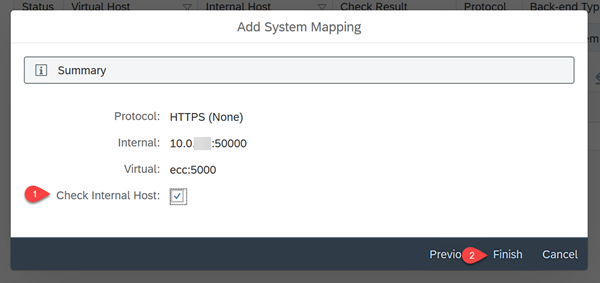
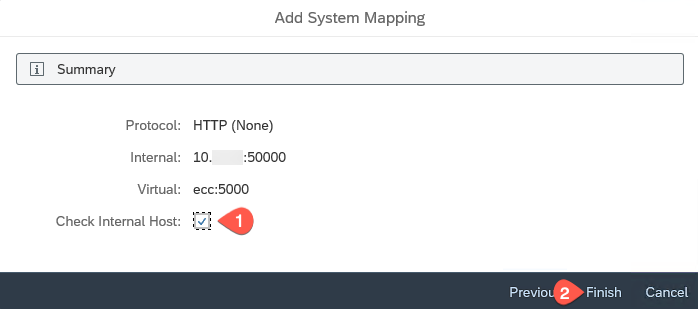
Fixing validation comments

Changed region(s): [[0.0, 0.0, 1.0, 1.0], [0.18, 0.4806, 0.42, 0.5371], [0.18, 0.3675, 0.42, 0.4523]]

diff --git a/mission/create-API/bupa/README.md b/mission/create-API/bupa/README.md
@@ -5,7 +5,16 @@ As the SAP ERP 6.0 system doesn't has an API OData services by default, we have 
 
 **Persona:** ABAP Developer
 
-## Step-by-step Guide                
+## Step-by-step Guide 
+
+### Create Developer Access Key
+1. Open in your browser "service.sap.com".
+2. Search for 'Keys & Requests' and select and open link 'https://launchpad.support.sap.com/#/sscr'.
+3. 	Register Developer - to get developer key ( Give your SAP user ID or your customer ID) A developer key will be generated towards your SAP user id.
+4. Register object - to get Object key ( Give your SAP user id or your customer ID) A object key will be generated towards your SAP user id.   
+5. Copy the keys which will be needed for the next step.
+
+### Create a custom Service using SAP Gateway Servic Builder            
 1. Navigate to [SAP API Hub - Business Partner (A2X) API ](https://api.sap.com/api/API_BUSINESS_PARTNER/overview) for  downloading EDMX file of Business Partner from API Business Hub. We will use this as a template for creating a custom OData service.
 
    * Click Download API Specifiation
@@ -43,7 +52,7 @@ As the SAP ERP 6.0 system doesn't has an API OData services by default, we have 
 
 >Note: You might face issue of importing EDMX error due to conversion of data type. Please ignore it for this scenario. Continue for generation.
 
-6. Click on **Generate** to enable **DPC**, **MPC**, **Model and Service** successfully. Save in **Local Package** or in **Transport**.
+6. Click on **Generate** to enable **DPC**, **MPC**, **Model and Service** successfully.  When you are prompted for Access key, enter the Access key which you generated in the previous step. Save in **Local Package** or in **Transport**.
    Clicking on **Generate**, you will get a dialog box with message *Do You still want to generate runtime artifacts (yes/no)*. Here Select **Yes** to continue.
 
    ![](./images/segw_5.png)
@@ -114,7 +123,7 @@ METHOD a_businesspartne_get_entity.
 ENDMETHOD.
 ````````````
 
-11. After Pasting the Code, Save the Code and You will get message that Code is Saved. Then Check the Code that your syntax is correct. Last everything went without error, then Activate the object. When you activate the objects, you get a popup with all the inactive objects. Select all the objects and click the 'green tick icon' to Activate all the objects.
+11. After Pasting the Code, Save the Code and You will get message that Code is Saved. Then Check the Code that your syntax is correct. Last everything went without error, then Activate the object. When you activate the objects, you will get a pop-up with all the inactive objects. Select all the inactive objects and click the 'green tick icon' to Activate all the objects.
 
    ![](images/activation.png)
 
@@ -172,7 +181,7 @@ METHOD a_businesspartne_get_entityset.
   ENDTRY.
 ENDMETHOD.
 `````
-14. After Pasting the Code, Save the Code and You will get message that Code is Saved. Then Check the Code that your syntax is correct. Last everything went without error, then Activate the object. When you activate the objects, you get a popup with all the inactive objects. Select all the objects and click the 'green tick icon' to Activate all the objects. Once the activation is successful you will get message in the below for successful activation. Please see the image below. 
+14. After Pasting the Code, Save the Code and You will get message that Code is Saved. Then Check the Code that your syntax is correct. Last everything went without error, then Activate the object. When you activate the objects, you will get a popup with all the inactive objects. Select all the inactive objects and click the 'green tick icon' to Activate all the objects. Once the activation is successful you will get message in the below for successful activation. Please see the image below. 
 
     >Never do force Activation as it will dump the Object. If activation is giving error, revisit the prevous steps and ensure every steps as done properly.
 
@@ -244,7 +253,7 @@ A_BUSINESSPARTNE_UPDATE_ENTITY
   ENDMETHOD.
 ````````
 
-17. After Pasting the Code, Save the Code and You will get message that Code is Saved. Then Check the Code that your syntax is correct. Last everything went without error, then Activate the object. When you activate the objects, you get a popup with all the inactive objects. Select all the objects and click the 'green tick icon' to Activate all the objects. Once the activation is successful you will get message in the below for successful activation. Please see the image below. 
+17. After Pasting the Code, Save the Code and You will get message that Code is Saved. Then Check the Code that your syntax is correct. Last everything went without error, then Activate the object. When you activate the objects, you will get a popup with all the inactive objects. Select all the inactive objects and click the 'green tick icon' to Activate all the objects. Once the activation is successful you will get message in the below for successful activation. Please see the image below. 
 
     >Never do force Activation as it will dump the Object. If activation is giving error, revisit the prevous steps and ensure every steps as done properly.
 
@@ -317,7 +326,7 @@ METHOD A_BUSINESSPART01_GET_ENTITY.
 ENDMETHOD.
 `````````````````````
 
-20. After Pasting the Code, Save the Code and You will get message that Code is Saved. Then Check the Code that your syntax is correct. Last everything went without error, then Activate the object. When you activate the objects, you get a popup with all the inactive objects. Select all the objects and click the 'green tick icon' to Activate all the objects. Once the activation is successful you will get message in the below for successful activation. Please see the image below. 
+20. After Pasting the Code, Save the Code and You will get message that Code is Saved. Then Check the Code that your syntax is correct. Last everything went without error, then Activate the object. When you activate the objects, you will get a popup with all the inactive objects. Select all the inactive objects and click the 'green tick icon' to Activate all the objects. Once the activation is successful you will get message in the below for successful activation. Please see the image below. 
 
     >Never do force Activation as it will dump the Object. If activation is giving error, revisit the prevous steps and ensure every steps as done properly.
 
@@ -391,7 +400,7 @@ A_BUSINESSPART01_GET_ENTITYSET
   ENDMETHOD.
 `````````
 
-23. After Pasting the Code, Save the Code and You will get message that Code is Saved. Then Check the Code that your syntax is correct. Last everything went without error, then Activate the object. When you activate the objects, you get a popup with all the inactive objects. Select all the objects and click the 'green tick icon' to Activate all the objects. Once the activation is successful you will get message in the below for successful activation. Please see the image below. 
+23. After Pasting the Code, Save the Code and You will get message that Code is Saved. Then Check the Code that your syntax is correct. Last everything went without error, then Activate the object. When you activate the objects, you will get a popup with all the inactive objects. Select all the inactive objects and click the 'green tick icon' to Activate all the objects. Once the activation is successful you will get message in the below for successful activation. Please see the image below. 
 
     >Never do force Activation as it will dump the Object. If activation is giving error, revisit the prevous steps and ensure every steps as done properly.
 
@@ -464,7 +473,7 @@ A_BUSINESSPART01_UPDATE_ENTITY
   ENDMETHOD.
 ``````````````````````
 
-26. After Pasting the Code, Save the Code and You will get message that Code is Saved. Then Check the Code that your syntax is correct. Last everything went without error, then Activate the object. When you activate the objects, you get a popup with all the inactive objects. Select all the objects and click the 'green tick icon' to Activate all the objects. Once the activation is successful you will get message in the below for successful activation. Please see the image below. 
+26. After Pasting the Code, Save the Code and You will get message that Code is Saved. Then Check the Code that your syntax is correct. Last everything went without error, then Activate the object. When you activate the objects, you will get a popup with all the inactive objects. Select all the inactive objects and click the 'green tick icon' to Activate all the objects. Once the activation is successful you will get message in the below for successful activation. Please see the image below. 
 
     >Never do force Activation as it will dump the Object. If activation is giving error, revisit the prevous steps and ensure every steps as done properly.
 
@@ -476,7 +485,7 @@ A_BUSINESSPART01_UPDATE_ENTITY
 
 28. Follow the below steps to register newly created Business Partner in Gateway.
     * **Set System-Alias** = *LOCAL*
-    * Search for ***API_BUSINESS_PARTNER***
+    * Search for ***API_BUSINESS_PARTNER*** with a '*' in the beginning and end of search term, e.g \*API_BUSINESS_PARTNER\*. 
     * Add selected service
     * Click on **ZAPI_BUSINESS_PARTNER_SRV**
 

diff --git a/mission/scc-setup/README.md b/mission/scc-setup/README.md
@@ -48,50 +48,50 @@ In your SAP Cloud Platform Subaccount under "Overview" you can find both, your *
 4.	Navigate to **Cloud to On-Premise**
 5.	To add a new system mapping click on the **'+'** on the right site of the screen
 
- ![System Mapping](./images/scc-04.png)
+   ![System Mapping](./images/scc-04.png)
 
-6.	In the pop-up window select 'ABAP System' as a **Backend Type** and then choose **Next**
+6. In the pop-up window select 'ABAP System' as a **Backend Type** and then choose **Next**
 
- ![Select Backend Type](./images/cloud-connector-3.png)
+   ![Select Backend Type](./images/cloud-connector-3.png)
 
 
-7.	Select 'HTTPS' as a **Protocol** and then choose **Next**
+7. Select 'HTTP' as a **Protocol** and then choose **Next**
 
-![Select Protocol](./images/cloud-connector-4.png)
+   ![Select Protocol](./images/cloud-connector-4.png)
 
 8.	Enter your values for the fields: **Internal Host** and **Internal Port** then choose **Next**
 
-![Select Screen](./images/scc-05.png)
+   ![Select Screen](./images/scc-05.png)
 
 9.	Enter values for: **Virtual Host** and **Virtual Port** then choose **Next**
 
-![Select Host](./images/scc-06.png)
+   ![Select Host](./images/scc-06.png)
 
 10.	Choose **Principal Type** 'None' and press **Next**
 
-11.	Select **Host in header** 'Use Virtual Host' and choose **Next**
+11. Select **Host in header** 'Use Virtual Host' and choose **Next**
 
-![Select Host](./images/cloud-connector-6.png)
+    ![Select Host](./images/cloud-connector-6.png)
 
-12.	Add a **Description** for your system mapping
+12.	 Add a **Description** for your system mapping
 
-![Add Description](./images/cloud-connector-7.png)
+    ![Add Description](./images/cloud-connector-7.png)
 
-13.	Make sure all the values are correct in the summary and don´t forget to check the Internal Host checkmark.
-14.	Choose **Finish**
+13.	 Make sure all the values are correct in the summary and don´t forget to check the Internal Host checkmark.
+14.	 Choose **Finish**
 
-![Check values](./images/scc-07.png)
+    ![Check values](./images/scc-07.png)
 
-14.	Click on Button **'+'** to Add resource
+15.	 Click on Button **'+'** to Add resource
 
- ![Button](./images/scc-08.png)
+    ![Button](./images/scc-08.png)
 
-15.	Enter the following data:
+16. Enter the following data:
     - URL Path
     - Check **Path and all sub-paths**
     - Description
 
-![Enter data](./images/scc-09.png)
+   ![Enter data](./images/scc-09.png)
 
 ## Create Cloud Foundry Destination
 

diff --git a/mission/enable-eventing/README.md b/mission/enable-eventing/README.md
@@ -26,7 +26,7 @@ In this section, we describe steps how to configure events in the on-premise bac
    
    ![copy EM Token Endpoint](./images/copyEMTokenEndpoint.png)
    
-5. Click on Cancel in the popup and Click on view site information button (lock symbol on top left corner) and click on 'Certificate'.
+5. Once you open the Token Endpoint URL, Click on Cancel in the popup and Click on view site information button (lock symbol on top left corner) and click on 'Certificate'.
 
    ![download Certificate1](./images/downloadCertificate1.png)
    
@@ -51,6 +51,17 @@ In this section, we describe steps how to configure events in the on-premise bac
     ![download Certificate6](./images/downloadCertificate6.png)
     
 	
+### Create a Node for standard SSL Client
+1. Open your SAP Backend system and Go to transcaction - '/nSTRUST'. 
+2. Click on 'Display/Change icon' and right Click on 'SSL client SSL Client (Standard) Node' and Select 'Create'.
+
+   ![Standard-1](./images/Standard-1.png)
+3. A Popup “Create PSE” will comes. Click on Continue(Enter).
+
+   ![Standard-2](./images/Standard-2.png)
+ 
+ 
+ 
 ### Import Certificate in on-premise system
 
 
@@ -59,16 +70,20 @@ In this section, we describe steps how to configure events in the on-premise bac
 
    ![download Certificate5](./images/openStrust.png)
    
-3. Click on continue and Click on 'Import Certificate' (under 'Certificate').
+3. A Popup “Create PSE” will comes. Click on Continue(Enter).
+
+   ![Anonymous-2](./images/Anonymous-2.png)
+   
+4. Click on 'Import Certificate' (under 'Certificate').
 
     ![import certificate1](./images/importcertificate1.png)
 
-4. Enter file path to certificate file which is stored in local system.
+5. Enter file path to certificate file which is stored in local system.
    
    ![import certificate2](./images/importCertificate2.png)
    
-5. 	Click on 'Continue' and Click on 'Allow' for the 'SAP GUI Security' popup asking to allow access to the file. 
-6. 	Now you can see the Certificate imported, Click on 'Add to Certificate List' and Click on the 'Save' icon.
+6. 	Click on 'Continue' and Click on 'Allow' for the 'SAP GUI Security' popup asking to allow access to the file. 
+7. 	Now you can see the Certificate imported, Click on 'Add to Certificate List' and Click on the 'Save' icon.
 	
    ![add To Certificate](./images/addToCertificate.png)
 

diff --git a/mission/scp-setup/README.md b/mission/scp-setup/README.md
@@ -105,29 +105,31 @@ Before running the booster please check for which regions and infrastructures th
 ### B: Create a SAP HANA Cloud Instance
 For this mission a SAP HANA Cloud Instance is necessary. Use the following steps for activating it:
 
-1.  Select Services - Service Marketplace - SAP HANA Cloud
+1. Select Services - Service Marketplace and click on the tile 'SAP HANA Cloud'. If you do not see the 'SAP HANA Cloud' Tile, click 'Entitlements' and click on 'Configure Entitlements and then click 'Add Service Plans' and assign the 'SAP HANA Cloud' service with 'hana' service plan.
+
     ![HANA](./images/hana-01.png)
 
-2.  Click on Create Instance 
+2. Click on the icon 'Create Instance'.
    
     ![HANA](./images/hana-02.png)
 
-3.  In the "New Instance" screen select 
+3. In the "New Instance" screen select 
     * Service = SAP HANA Cloud
     * Service Plan = Hana
     * Runtime Environment = Cloud Foundry
     * Space = the space you have created with the Booster
    
-    click on **here**
+    click on the link **here** to create a Database first before creating an instance.
    
 
     ![HANA](./images/hana-03.png)
 
-4.  Click on Create Instance
+4. Click the button 'Create Database'.
 
-    ![HANA](./images/hana-04.png)
+    ![HANA](./images/createDatabase.png)
 
-5.  Enter an instance name - description and password. if everything is correct the "Step 2" button appear - click on it.
+
+5.  Enter an 'Instance Name','Description' and 'Password'. if everything is correct then the "Step 2" button appear - click on it.
 
     ![HANA](./images/hana-05.png)
 
